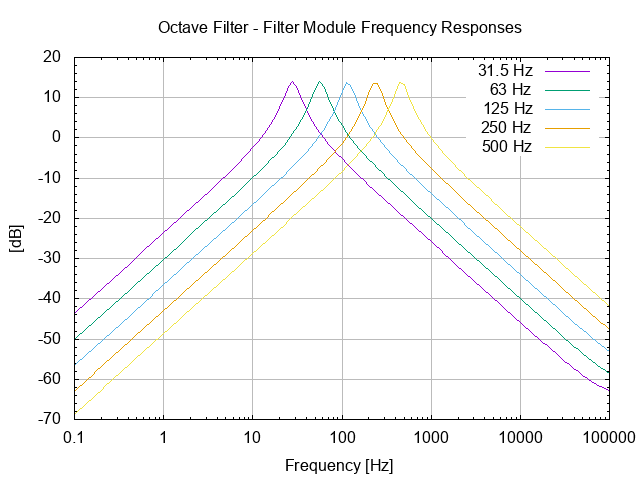
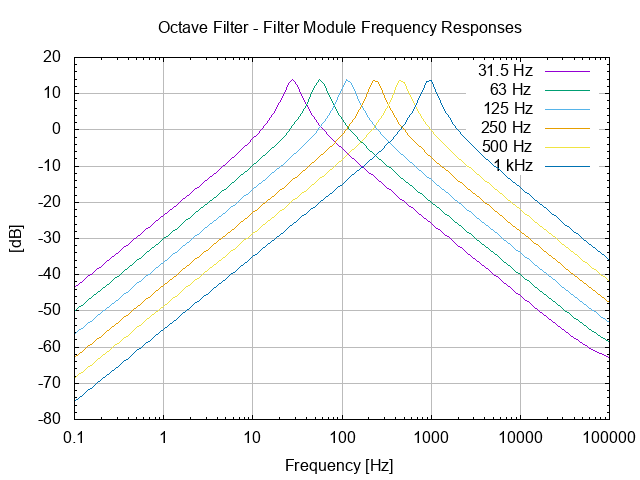
Added gnucap files and graph.

diff --git a/docs/README.md b/docs/README.md
@@ -466,6 +466,12 @@ as to investigate the power up of the input stage.
 
 ----
 
+###### Function 012: 1 kHz Band-pass Filter.
+
+![1 kHz Band-pass Filter - Frequency response](../ecad/gnucap/26.012.00.00.01.png)
+
+----
+
 #### ktechlab simulations.
 
 ### Breadboard prototyping.
